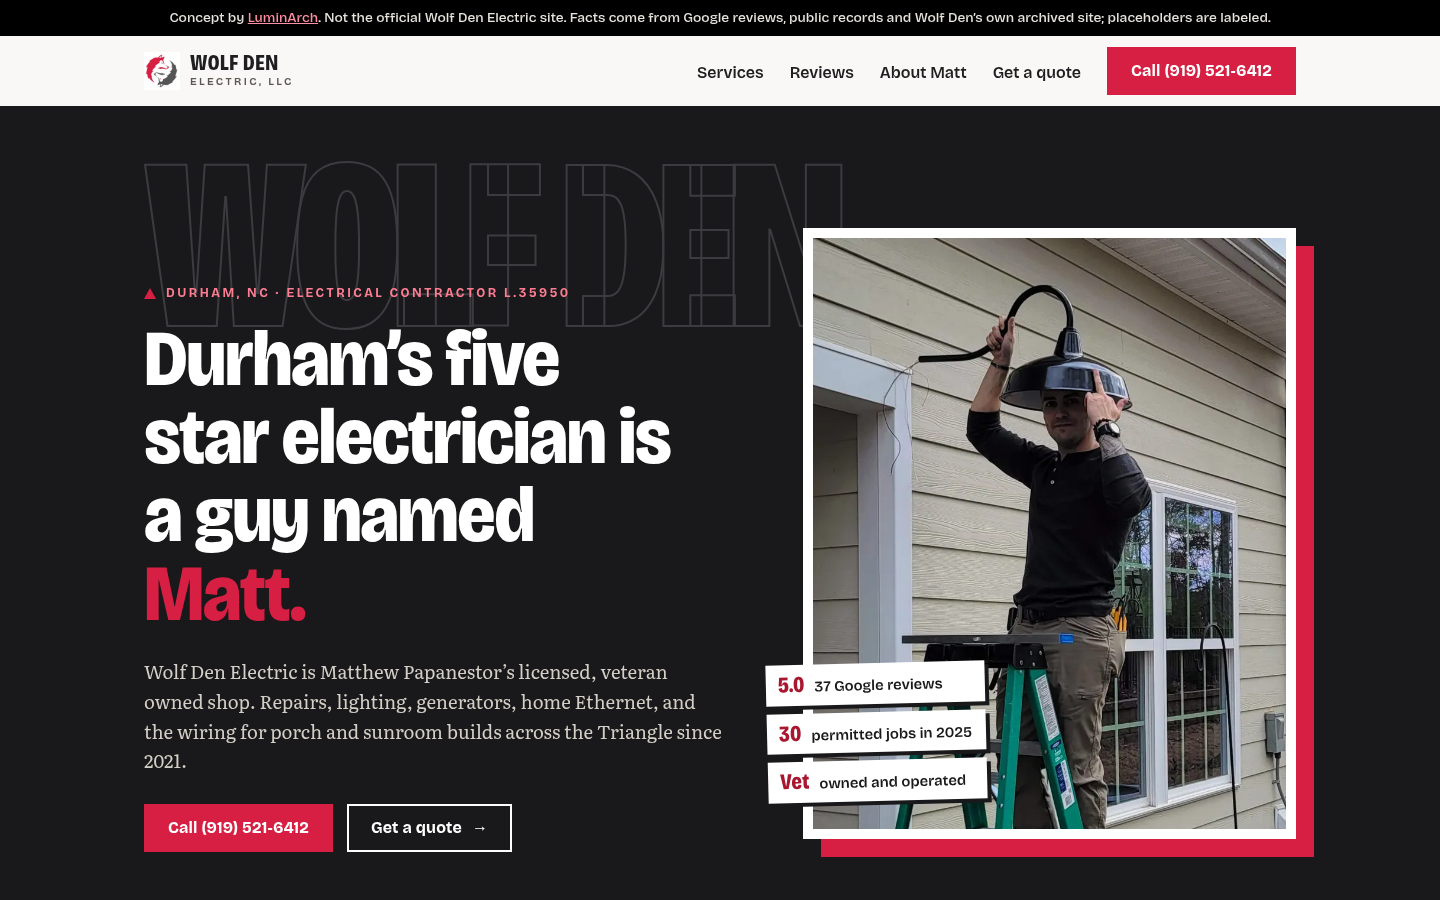
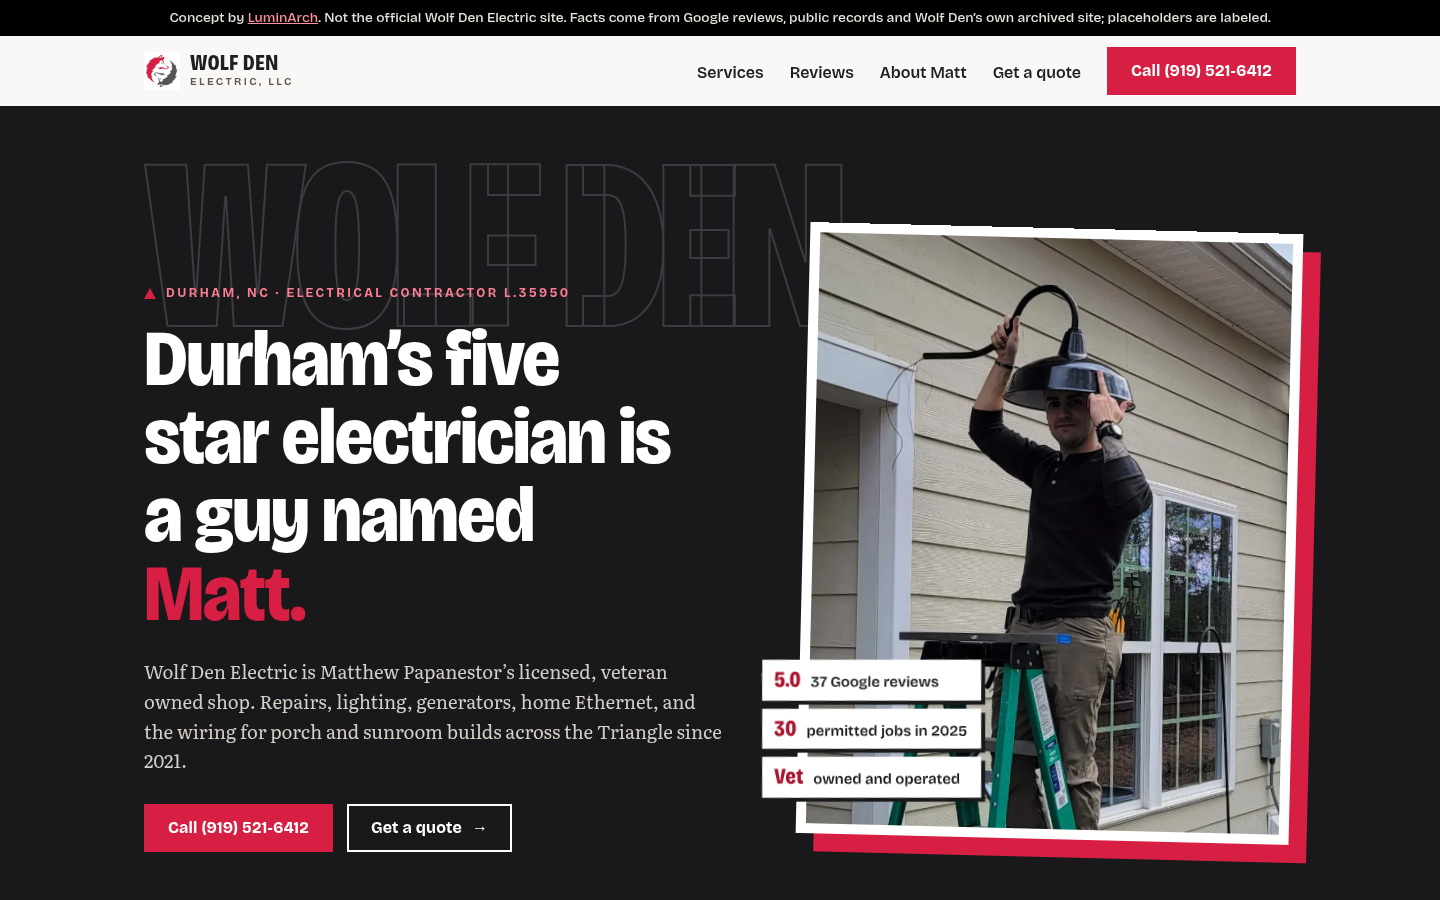
Hero paints without waiting for JS reveal

diff --git a/index.html b/index.html
@@ -15,11 +15,11 @@
 <button class="menu-btn" aria-expanded="false" aria-controls="menu">Menu</button><ul id="menu"><li><a href="services.html">Services</a></li><li><a href="reviews.html">Reviews</a></li><li><a href="about.html">About Matt</a></li><li><a href="contact.html">Get a quote</a></li></ul><a class="btn btn--red" href="tel:+19195216412"><span class="cl-full">Call (919) 521&#8209;6412</span><span class="cl-short">Call Matt</span></a></div></header><main id="main">
 <section class="cover"><div class="wrap cover-grid">
  <p class="masthead" aria-hidden="true">Wolf Den</p>
- <div class="cover-copy rv"><p class="kicker kicker--red"><svg class="tri" viewBox="0 0 12 11" aria-hidden="true"><path d="M6 0 L12 11 H0 Z"/></svg>Durham, NC &middot; Electrical contractor L.35950</p>
+ <div class="cover-copy"><p class="kicker kicker--red"><svg class="tri" viewBox="0 0 12 11" aria-hidden="true"><path d="M6 0 L12 11 H0 Z"/></svg>Durham, NC &middot; Electrical contractor L.35950</p>
   <h1>Durham&rsquo;s five star electrician is a guy named <span class="red">Matt.</span></h1>
   <p class="lede">Wolf Den Electric is Matthew Papanestor&rsquo;s licensed, veteran owned shop. Repairs, lighting, generators, home Ethernet, and the wiring for porch and sunroom builds across the Triangle since 2021.</p>
   <div class="cta"><a class="btn btn--red" href="tel:+19195216412">Call (919) 521&#8209;6412</a><a class="btn btn--ghost" href="contact.html">Get a quote <span aria-hidden="true">&rarr;</span></a></div></div>
- <figure class="cover-photo rv"><img src="img/matt-ladder-light.webp" srcset="img/matt-ladder-light-800.webp 800w, img/matt-ladder-light.webp 1250w" sizes="(max-width:900px) 100vw, 40vw" alt="Matt Papanestor on a ladder, holding up a black barn light he is about to install" width="1250" height="1562" fetchpriority="high">
+ <figure class="cover-photo"><img src="img/matt-ladder-light.webp" srcset="img/matt-ladder-light-800.webp 800w, img/matt-ladder-light.webp 1250w" sizes="(max-width:900px) 100vw, 40vw" alt="Matt Papanestor on a ladder, holding up a black barn light he is about to install" width="1250" height="1562" fetchpriority="high">
   <ul class="coverlines"><li><b>5.0</b> 37 Google reviews</li><li><b>30</b> permitted jobs in 2025</li><li><b>Vet</b> owned and operated</li></ul></figure>
 </div></section>
 

diff --git a/css/pages.css b/css/pages.css
@@ -154,3 +154,6 @@ legend{font:700 1.05rem var(--f-display);margin-bottom:12px}
   .coverlines b{font-size:1.15rem}
   .notice-in{gap:8px}
 }
+/* hero is never hidden; it settles with transform only so first paint is not delayed */
+@keyframes settle{from{transform:translateY(14px) rotate(2.4deg)}}
+.js-ready .cover-photo{animation:settle .8s var(--ink-ease) both}

diff --git a/build.py b/build.py
@@ -94,11 +94,11 @@ page('index.html','Durham Electrician, Veteran Owned | Wolf Den Electric, LLC',
  'Wolf Den Electric is Matt Papanestor&#39;s licensed, veteran owned electrical shop in Durham. 5.0 from 37 Google reviews. Call (919) 521-6412 for a quote today.'.replace('&#39;',"'"), f'''
 <section class="cover"><div class="wrap cover-grid">
  <p class="masthead" aria-hidden="true">Wolf Den</p>
- <div class="cover-copy rv">{K('Durham, NC &middot; Electrical contractor L.35950','kicker--red')}
+ <div class="cover-copy">{K('Durham, NC &middot; Electrical contractor L.35950','kicker--red')}
   <h1>Durham&rsquo;s five star electrician is a guy named <span class="red">Matt.</span></h1>
   <p class="lede">Wolf Den Electric is Matthew Papanestor&rsquo;s licensed, veteran owned shop. Repairs, lighting, generators, home Ethernet, and the wiring for porch and sunroom builds across the Triangle since 2021.</p>
   <div class="cta"><a class="btn btn--red" href="tel:{TEL}">Call {TEL_H}</a><a class="btn btn--ghost" href="contact.html">Get a quote <span aria-hidden="true">&rarr;</span></a></div></div>
- <figure class="cover-photo rv">{img('matt-ladder-light.webp','Matt Papanestor on a ladder, holding up a black barn light he is about to install',sizes='(max-width:900px) 100vw, 40vw',eager=True,w=1250,h=1562)}
+ <figure class="cover-photo">{img('matt-ladder-light.webp','Matt Papanestor on a ladder, holding up a black barn light he is about to install',sizes='(max-width:900px) 100vw, 40vw',eager=True,w=1250,h=1562)}
   <ul class="coverlines"><li><b>5.0</b> 37 Google reviews</li><li><b>30</b> permitted jobs in 2025</li><li><b>Vet</b> owned and operated</li></ul></figure>
 </div></section>
 
